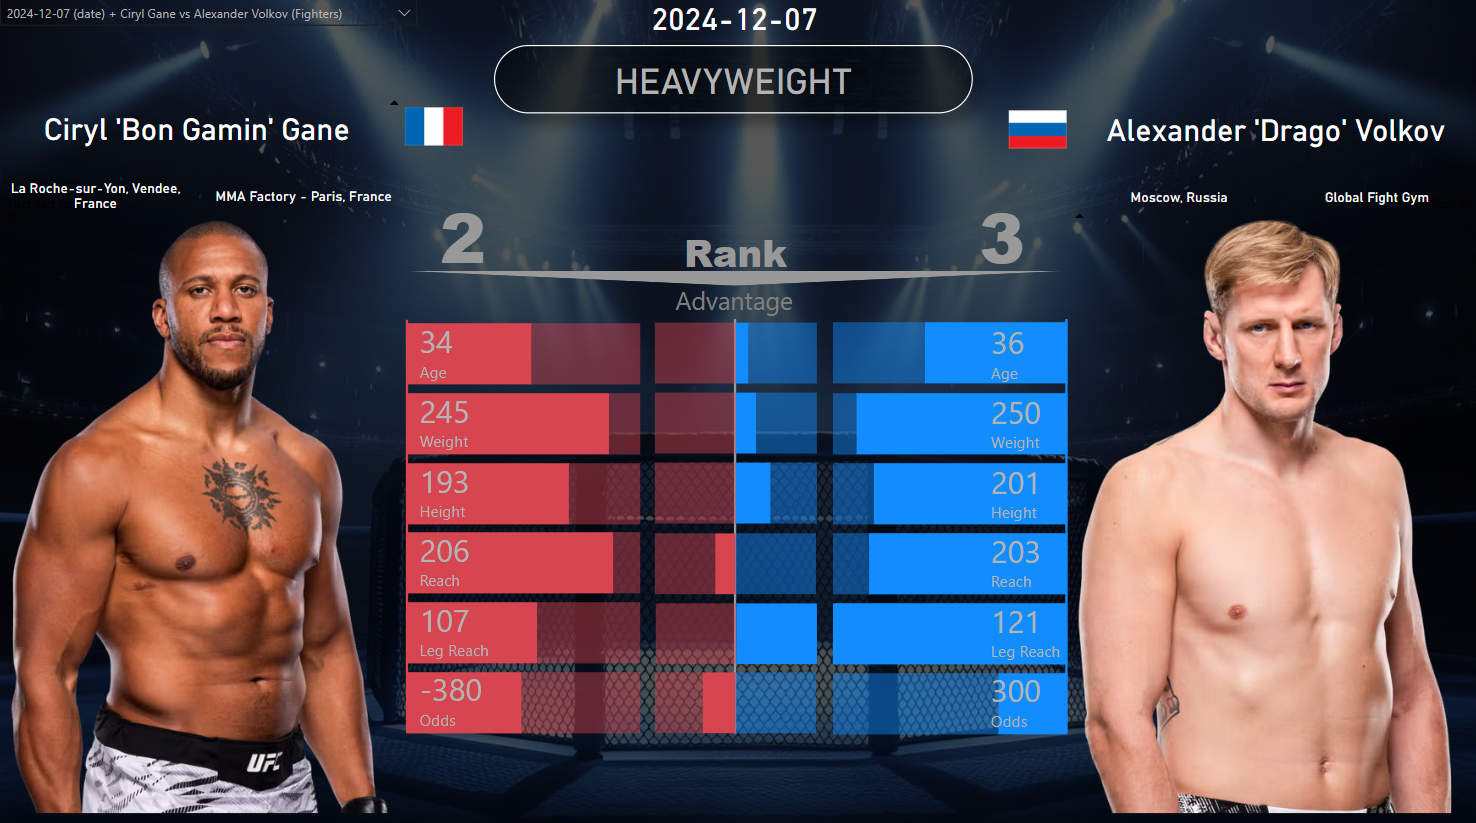
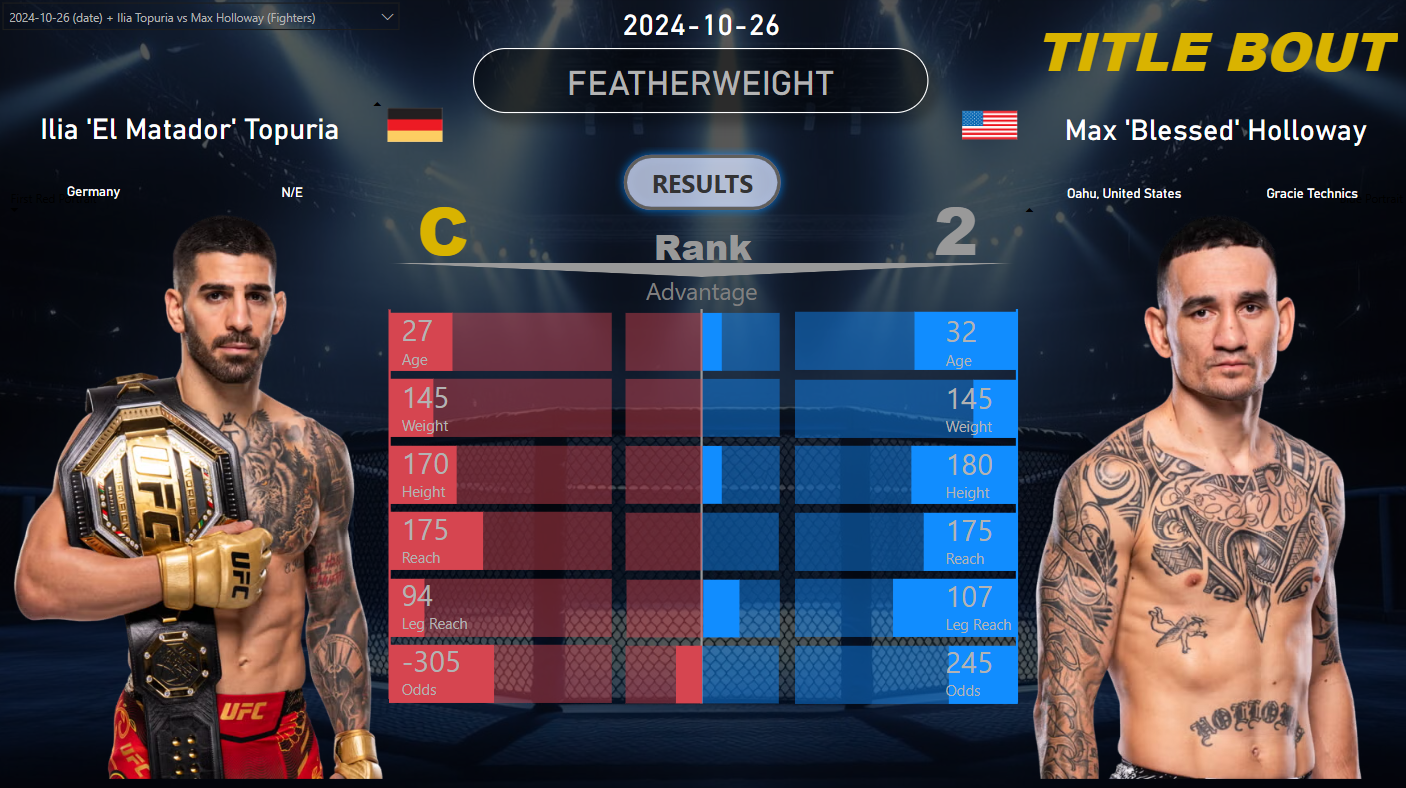
Update Readme
Updated screenshots. Added fight results screenshot.

diff --git a/README.md b/README.md
@@ -4,7 +4,7 @@ This is just a personal project. The goal here is just to learn and practice var
 
 ![Tale of the Tape](https://github.com/DVHeld/UFC_Stats/blob/main/img/Tale_of_the_Tape_01.png?raw=true)
 ![Tale of the Tape](https://github.com/DVHeld/UFC_Stats/blob/main/img/Tale_of_the_Tape_02.png?raw=true)
-![Tale of the Tape](https://github.com/DVHeld/UFC_Stats/blob/main/img/Tale_of_the_Tape_03.png?raw=true)
+![Fight Results](https://github.com/DVHeld/UFC_Stats/blob/main/img/Fight_Results_01.png?raw=true)
 
 The sources for the raw data are:
 
